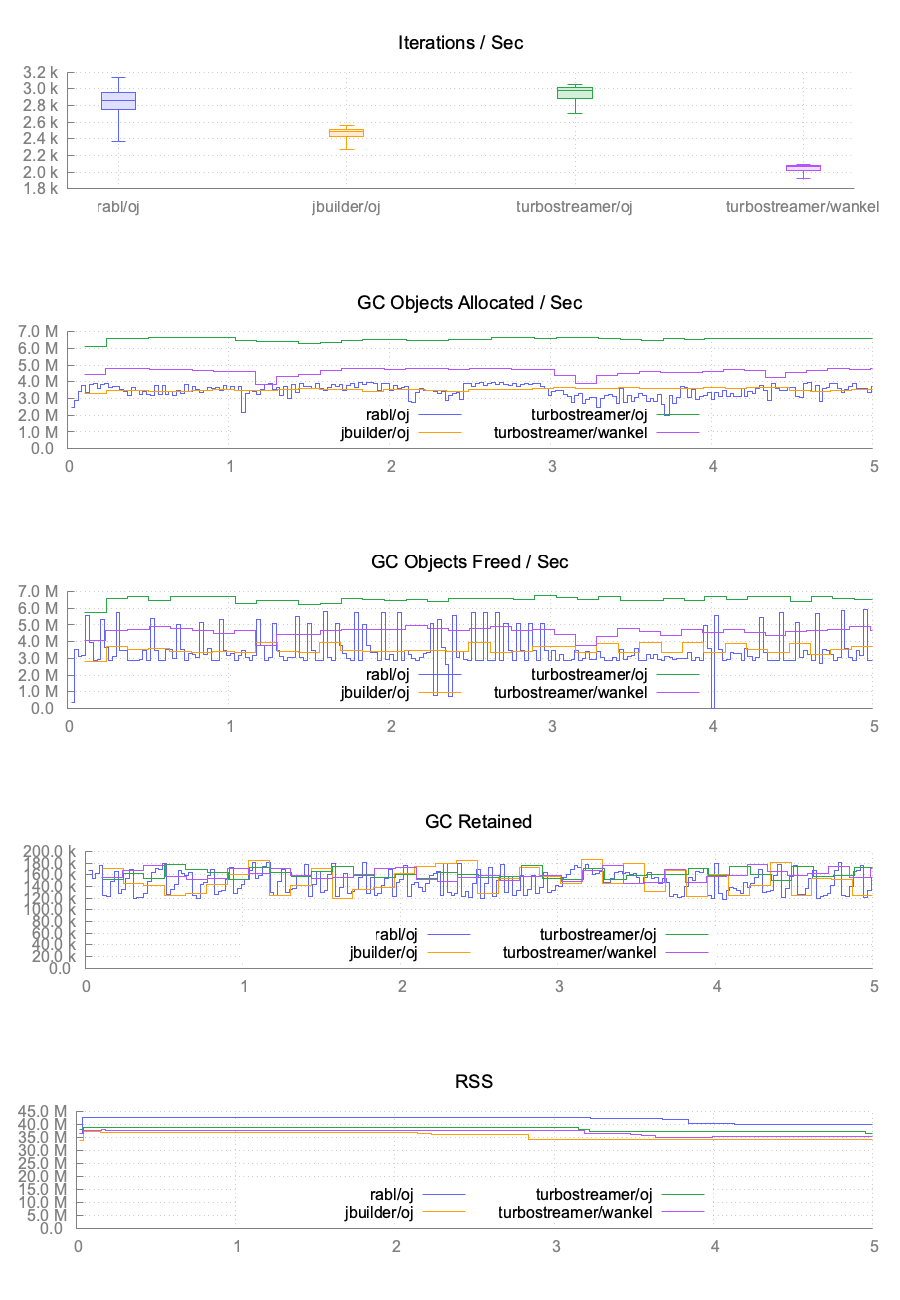
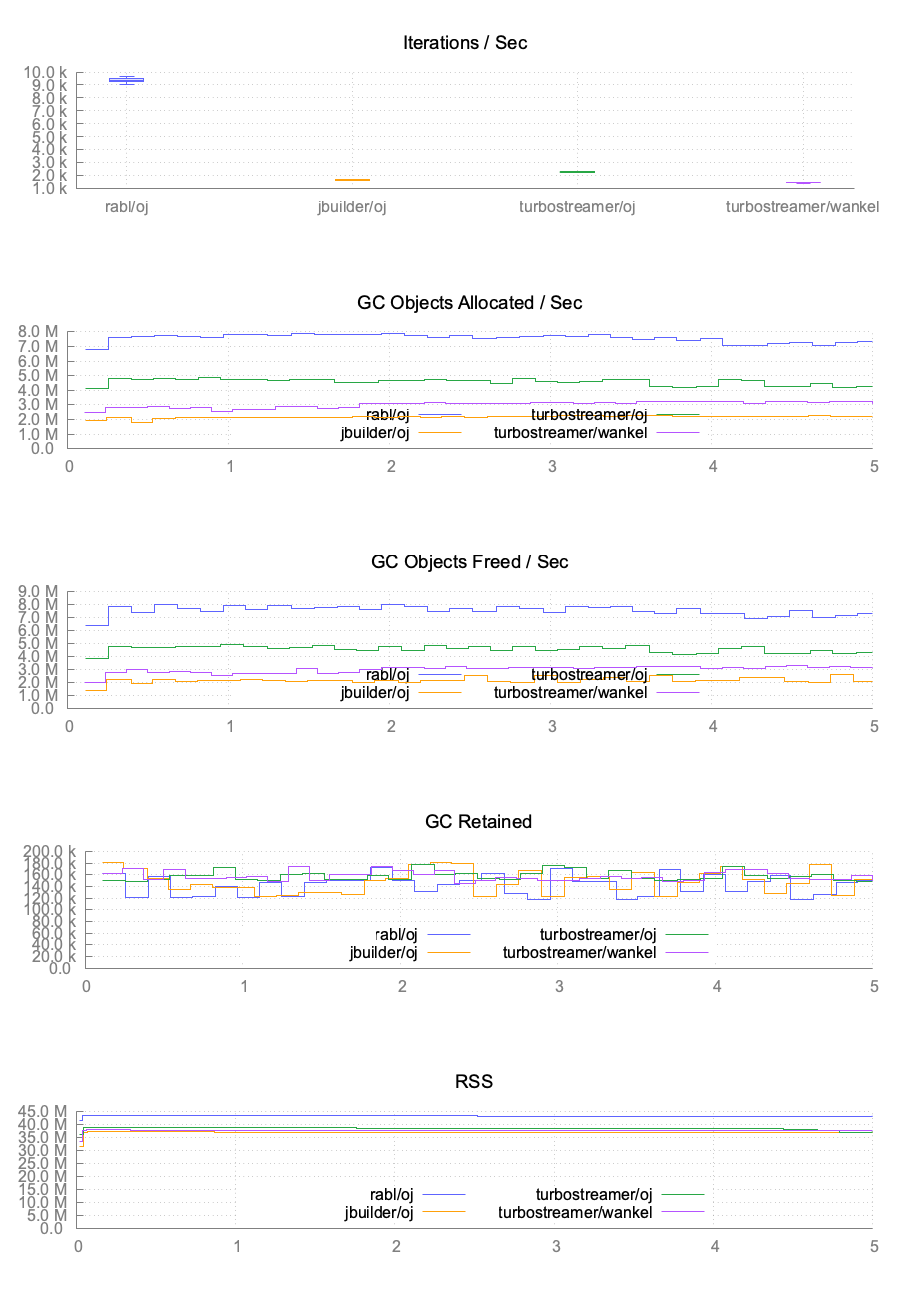
Make the four benchmark implementations byte-comparable
A validity pass over the suites found three asymmetries:

- rabl re-read and re-compiled both .rabl templates from disk on every
  iteration (Rabl.configuration.cache_sources defaults to false) while the
  other implementations execute pre-compiled Ruby. Sources are now cached, as
  a deployed app would have them.

- Time values were serialized by each encoder's own policy, so the four
  produced different bytes and did different amounts of formatting work for
  the "same" document -- TurboStreamer's Oj encoder alone emitted 407 fewer
  bytes than its wankel encoder on rolftimmermans. Dates are now a single
  pre-formatted string.

- The dirk jbuilder file had drifted from the shared document shape.

With these, all four produce byte-identical output (modulo a trailing newline
from the Oj stream encoder), verified along with cache behaviour: warm runs do
exactly one cache read and no writes per iteration, uncached runs no cache ops,
and no implementation touches the filesystem inside the measured loop.

README captions updated to the regenerated numbers, including that a 5MB cache
hit is slower for rabl than rebuilding (the jbuilder#259 effect).

diff --git a/performance/rolftimmermans/turbostreamer/oj.rb b/performance/rolftimmermans/turbostreamer/oj.rb
@@ -12,7 +12,7 @@ end
 def render_turbostreamer
   TurboStreamer::Template.encode FakeContext.new do |json|
     json.object! do
-      json.generated_at $now
+      json.generated_at $date
       json.request_id $next_request_id.call
 
       json.cache! 'article_fragment' do
@@ -25,7 +25,7 @@ def render_turbostreamer
             end
             json.title "Profiling Jbuilder"
             json.body "How to profile Jbuilder"
-            json.date $now
+            json.date $date
             json.references $arr do |ref|
               json.object! do
                 json.name "Introduction to profiling"
@@ -37,7 +37,7 @@ def render_turbostreamer
                 json.author($author, :name, :birthyear, :bio)
                 json.email "rolf@example.com"
                 json.body "Great article"
-                json.date $now
+                json.date $date
               end
             end
           end

diff --git a/performance/rolftimmermans/turbostreamer/wankel.rb b/performance/rolftimmermans/turbostreamer/wankel.rb
@@ -12,7 +12,7 @@ end
 def render_turbostreamer
   TurboStreamer::Template.encode FakeContext.new do |json|
     json.object! do
-      json.generated_at $now
+      json.generated_at $date
       json.request_id $next_request_id.call
 
       json.cache! 'article_fragment' do
@@ -25,7 +25,7 @@ def render_turbostreamer
             end
             json.title "Profiling Jbuilder"
             json.body "How to profile Jbuilder"
-            json.date $now
+            json.date $date
             json.references $arr do |ref|
               json.object! do
                 json.name "Introduction to profiling"
@@ -37,7 +37,7 @@ def render_turbostreamer
                 json.author($author, :name, :birthyear, :bio)
                 json.email "rolf@example.com"
                 json.body "Great article"
-                json.date $now
+                json.date $date
               end
             end
           end

diff --git a/performance/rolftimmermans/jbuilder/oj.rb b/performance/rolftimmermans/jbuilder/oj.rb
@@ -12,7 +12,7 @@ end
 
 def render_jbuilder
   JbuilderTemplate.encode FakeContext.new do |json|
-    json.generated_at $now
+    json.generated_at $date
     json.request_id $next_request_id.call
 
     json.cache! 'article_fragment' do
@@ -20,7 +20,7 @@ def render_jbuilder
         json.author($author, :name, :birthyear, :bio)
         json.title "Profiling Jbuilder"
         json.body "How to profile Jbuilder"
-        json.date $now
+        json.date $date
         json.references $arr do |ref|
           json.name "Introduction to profiling"
           json.url "http://example.com/"
@@ -29,7 +29,7 @@ def render_jbuilder
           json.author($author, :name, :birthyear, :bio)
           json.email "rolf@example.com"
           json.body "Great article"
-          json.date $now
+          json.date $date
         end
       end
     end

diff --git a/performance/rolftimmermans/lib.rb b/performance/rolftimmermans/lib.rb
@@ -35,7 +35,10 @@ end
 struct = Struct.new(:name, :birthyear, :bio, :url)
 $author = struct.new("Rolf", 1920, "Software developer", "http://example.com/")
 $author.instance_eval { undef each } # Jbuilder doesn't like #each on non-arrays.
-$now = Time.now
+# A fixed, pre-formatted timestamp. Each library would otherwise format
+# Time objects with its own encoder policy, producing different bytes and
+# doing different amounts of work for the "same" document.
+$date = '2015-10-06T21:04:42.000Z'
 $arr = 100.times.to_a
 
 # Values outside the cached fragment, so no implementation can serve the whole

diff --git a/performance/dirk/lib.rb b/performance/dirk/lib.rb
@@ -38,6 +38,9 @@ end
 # document from cache. A response that is entirely cacheable would be cached at
 # the controller instead of rendered, so the interesting case is a cached
 # fragment with live data around it.
-$now = Time.now
+# A fixed, pre-formatted timestamp. Each library would otherwise format
+# Time objects with its own encoder policy, producing different bytes and
+# doing different amounts of work for the "same" document.
+$date = '2015-10-06T21:04:42.000Z'
 $request_id = 0
 $next_request_id = -> { $request_id += 1 }

diff --git a/performance/rolftimmermans/rabl/oj.rb b/performance/rolftimmermans/rabl/oj.rb
@@ -12,6 +12,10 @@ module Rails
   end
 end
 
+# Cache template sources the way a deployed app would; without this rabl
+# re-reads and re-compiles both .rabl files from disk on every render.
+Rabl.configuration.cache_sources = true
+
 VIEW_PATH = File.expand_path("./performance/rolftimmermans/rabl/views/")
 
 # Fill the cache

diff --git a/performance/dirk/rabl/oj.rb b/performance/dirk/rabl/oj.rb
@@ -12,6 +12,10 @@ module Rails
   end
 end
 
+# Cache template sources the way a deployed app would; without this rabl
+# re-reads and re-compiles both .rabl files from disk on every render.
+Rabl.configuration.cache_sources = true
+
 VIEW_PATH = File.expand_path("./performance/dirk/rabl/views/")
 
 # Fill the cache

diff --git a/performance/dirk/turbostreamer/oj.rb b/performance/dirk/turbostreamer/oj.rb
@@ -12,7 +12,7 @@ end
 def render_turbostreamer
   TurboStreamer::Template.encode FakeContext.new do |json|
     json.object! do
-      json.generated_at $now
+      json.generated_at $date
       json.request_id $next_request_id.call
 
       json.cache! 'tscached' do

diff --git a/performance/dirk/turbostreamer/wankel.rb b/performance/dirk/turbostreamer/wankel.rb
@@ -12,7 +12,7 @@ end
 def render_turbostreamer
   TurboStreamer::Template.encode FakeContext.new do |json|
     json.object! do
-      json.generated_at $now
+      json.generated_at $date
       json.request_id $next_request_id.call
 
       json.cache! 'tscached' do

diff --git a/performance/dirk/jbuilder/oj.rb b/performance/dirk/jbuilder/oj.rb
@@ -12,7 +12,7 @@ end
 
 def render_jbuilder
   JbuilderTemplate.encode FakeContext.new do |json|
-    json.generated_at $now
+    json.generated_at $date
     json.request_id $next_request_id.call
 
     json.cache! 'jbcached' do

diff --git a/README.md b/README.md
@@ -456,6 +456,12 @@ consults the former through `Rabl::Helpers#template_cache_configured?`, while
 TurboStreamer and jbuilder ask the controller they are rendered with. Setting
 only one leaves the other library's caching silently disabled.
 
+All four implementations produce the same document — byte-identical output
+(TurboStreamer's Oj encoder appends a trailing newline), the same fragment
+cached under the same key, and the same live values rendered outside it. RABL
+runs with `cache_sources` enabled so no implementation touches the filesystem
+inside the measured loop.
+
 ### rolftimmermans — 22KB document
 
 An article with an author, 100 references and 100 comments. The article is the
@@ -466,19 +472,19 @@ The document comes from [rolftimmermans](https://github.com/rolftimmermans)'
 
 <img src="https://raw.githubusercontent.com/malomalo/turbostreamer/master/performance/rolftimmermans/report-uncached.png" width="600" alt="rolftimmermans without caching: iterations/sec, GC and RSS for rabl, jbuilder and turbostreamer">
 
-Rebuilt every iteration, the four land within about 40% of each other. At this
-size there is little to stream: RABL's template evaluates to a Ruby Hash that Oj
-serializes in one pass, and that is competitive with walking the structure
-through a builder DSL.
+Rebuilt every iteration, RABL leads by about 4x: its template evaluates to a
+Ruby Hash that Oj serializes in one C-level pass, where the builder DSLs walk
+the same structure through roughly 800 Ruby method calls. At this size there is
+nothing to stream.
 
 <img src="https://raw.githubusercontent.com/malomalo/turbostreamer/master/performance/rolftimmermans/report-cached.png" width="600" alt="rolftimmermans with caching: iterations/sec, GC and RSS for rabl, jbuilder and turbostreamer">
 
-With the fragment cached the gap is roughly fifty-fold, and it comes from *what*
-each library caches. TurboStreamer caches the fragment's serialized JSON and
-splices those bytes into the output stream, so a hit costs a copy and no
-serialization. RABL and jbuilder cache the data structure — RABL's key is
-`rabl/article_fragment//hash` — so a hit skips building the objects but still
-re-serializes them into the response every time.
+With the fragment cached the ranking inverts and the gap is roughly
+twenty-fold, and it comes from *what* each library caches. TurboStreamer caches
+the fragment's serialized JSON and splices those bytes into the output stream,
+so a hit costs a copy and no serialization. RABL and jbuilder cache the data
+structure — RABL's key is `rabl/article_fragment//hash` — so a hit deserializes
+the cached objects and re-serializes them into the response every time.
 
 ### dirk — 5MB document
 
@@ -492,15 +498,18 @@ around a single large cacheable block.
 
 <img src="https://raw.githubusercontent.com/malomalo/turbostreamer/master/performance/dirk/report-uncached.png" width="600" alt="dirk without caching: iterations/sec, GC and RSS for rabl, jbuilder and turbostreamer">
 
-Rebuilt every iteration, RABL leads: one Oj pass over a finished object graph
-beats roughly 51,000 Ruby-level DSL calls. Note the RSS panel, where building
-the document costs every implementation several hundred MB.
+Rebuilt every iteration, RABL leads by about 2x: one Oj pass over a finished
+object graph beats roughly 51,000 Ruby-level DSL calls. Note the RSS panel,
+where building the document costs every implementation several hundred MB.
 
 <img src="https://raw.githubusercontent.com/malomalo/turbostreamer/master/performance/dirk/report-cached.png" width="600" alt="dirk with caching: iterations/sec, GC and RSS for rabl, jbuilder and turbostreamer">
 
 With the fragment cached the same split appears, and the larger the cached
 fragment the more the re-serialization costs: TurboStreamer re-emits 5MB of
-cached bytes while RABL and jbuilder re-serialize 5MB of cached objects.
+cached bytes while RABL and jbuilder deserialize and re-serialize 5MB of cached
+objects. At this size a cache hit is actually *slower* for RABL than rebuilding
+from scratch — the effect reported against jbuilder in
+[jbuilder#259](https://github.com/rails/jbuilder/issues/259), reproduced here.
 
 Special Thanks & Contributors
 -----------------------------
